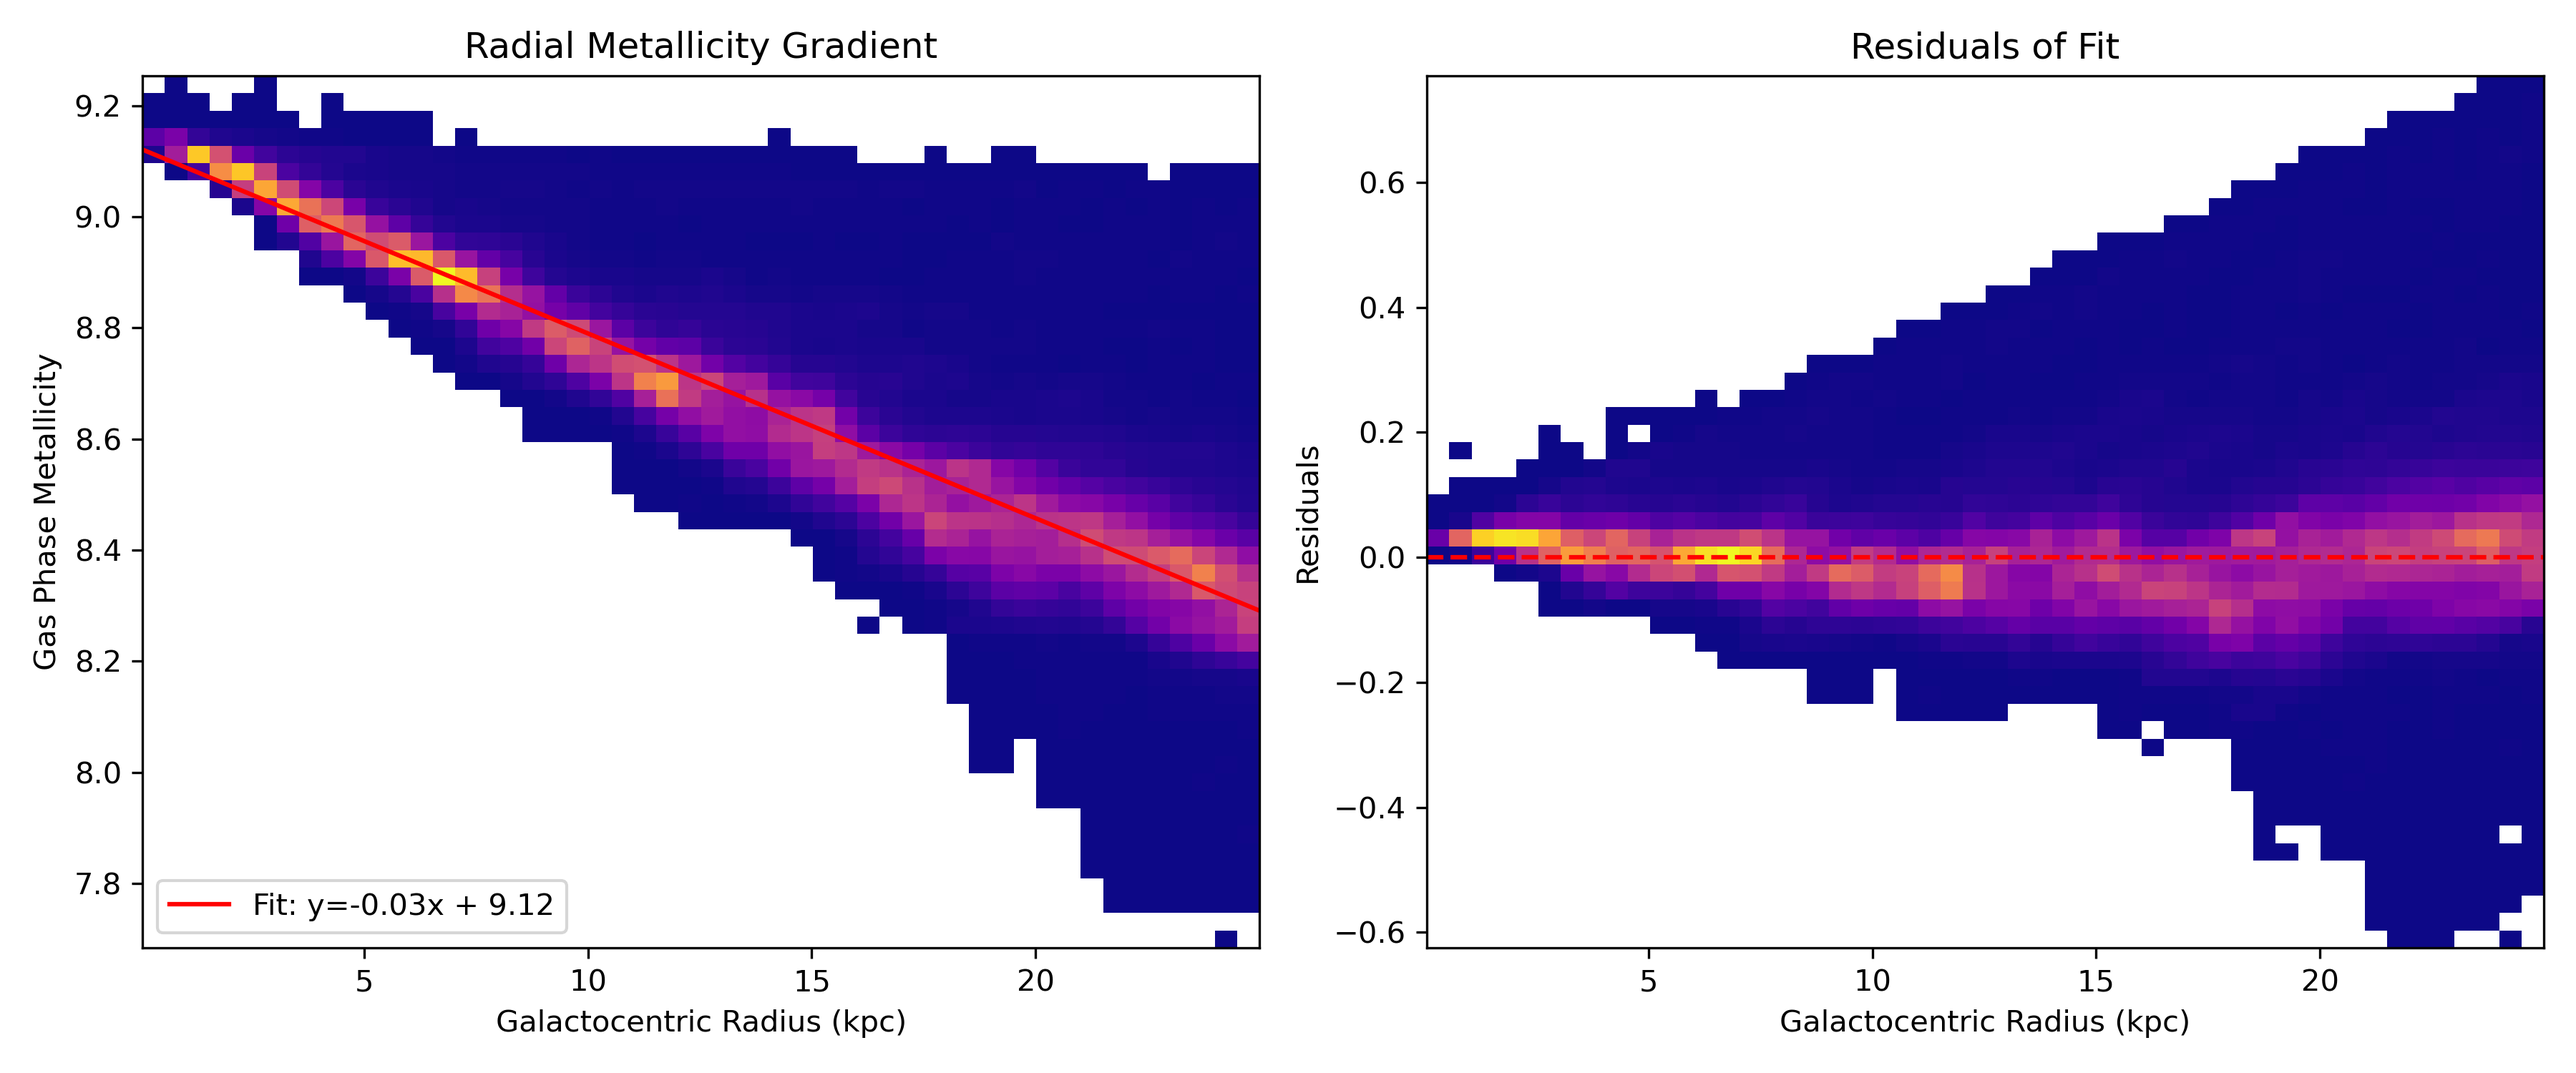
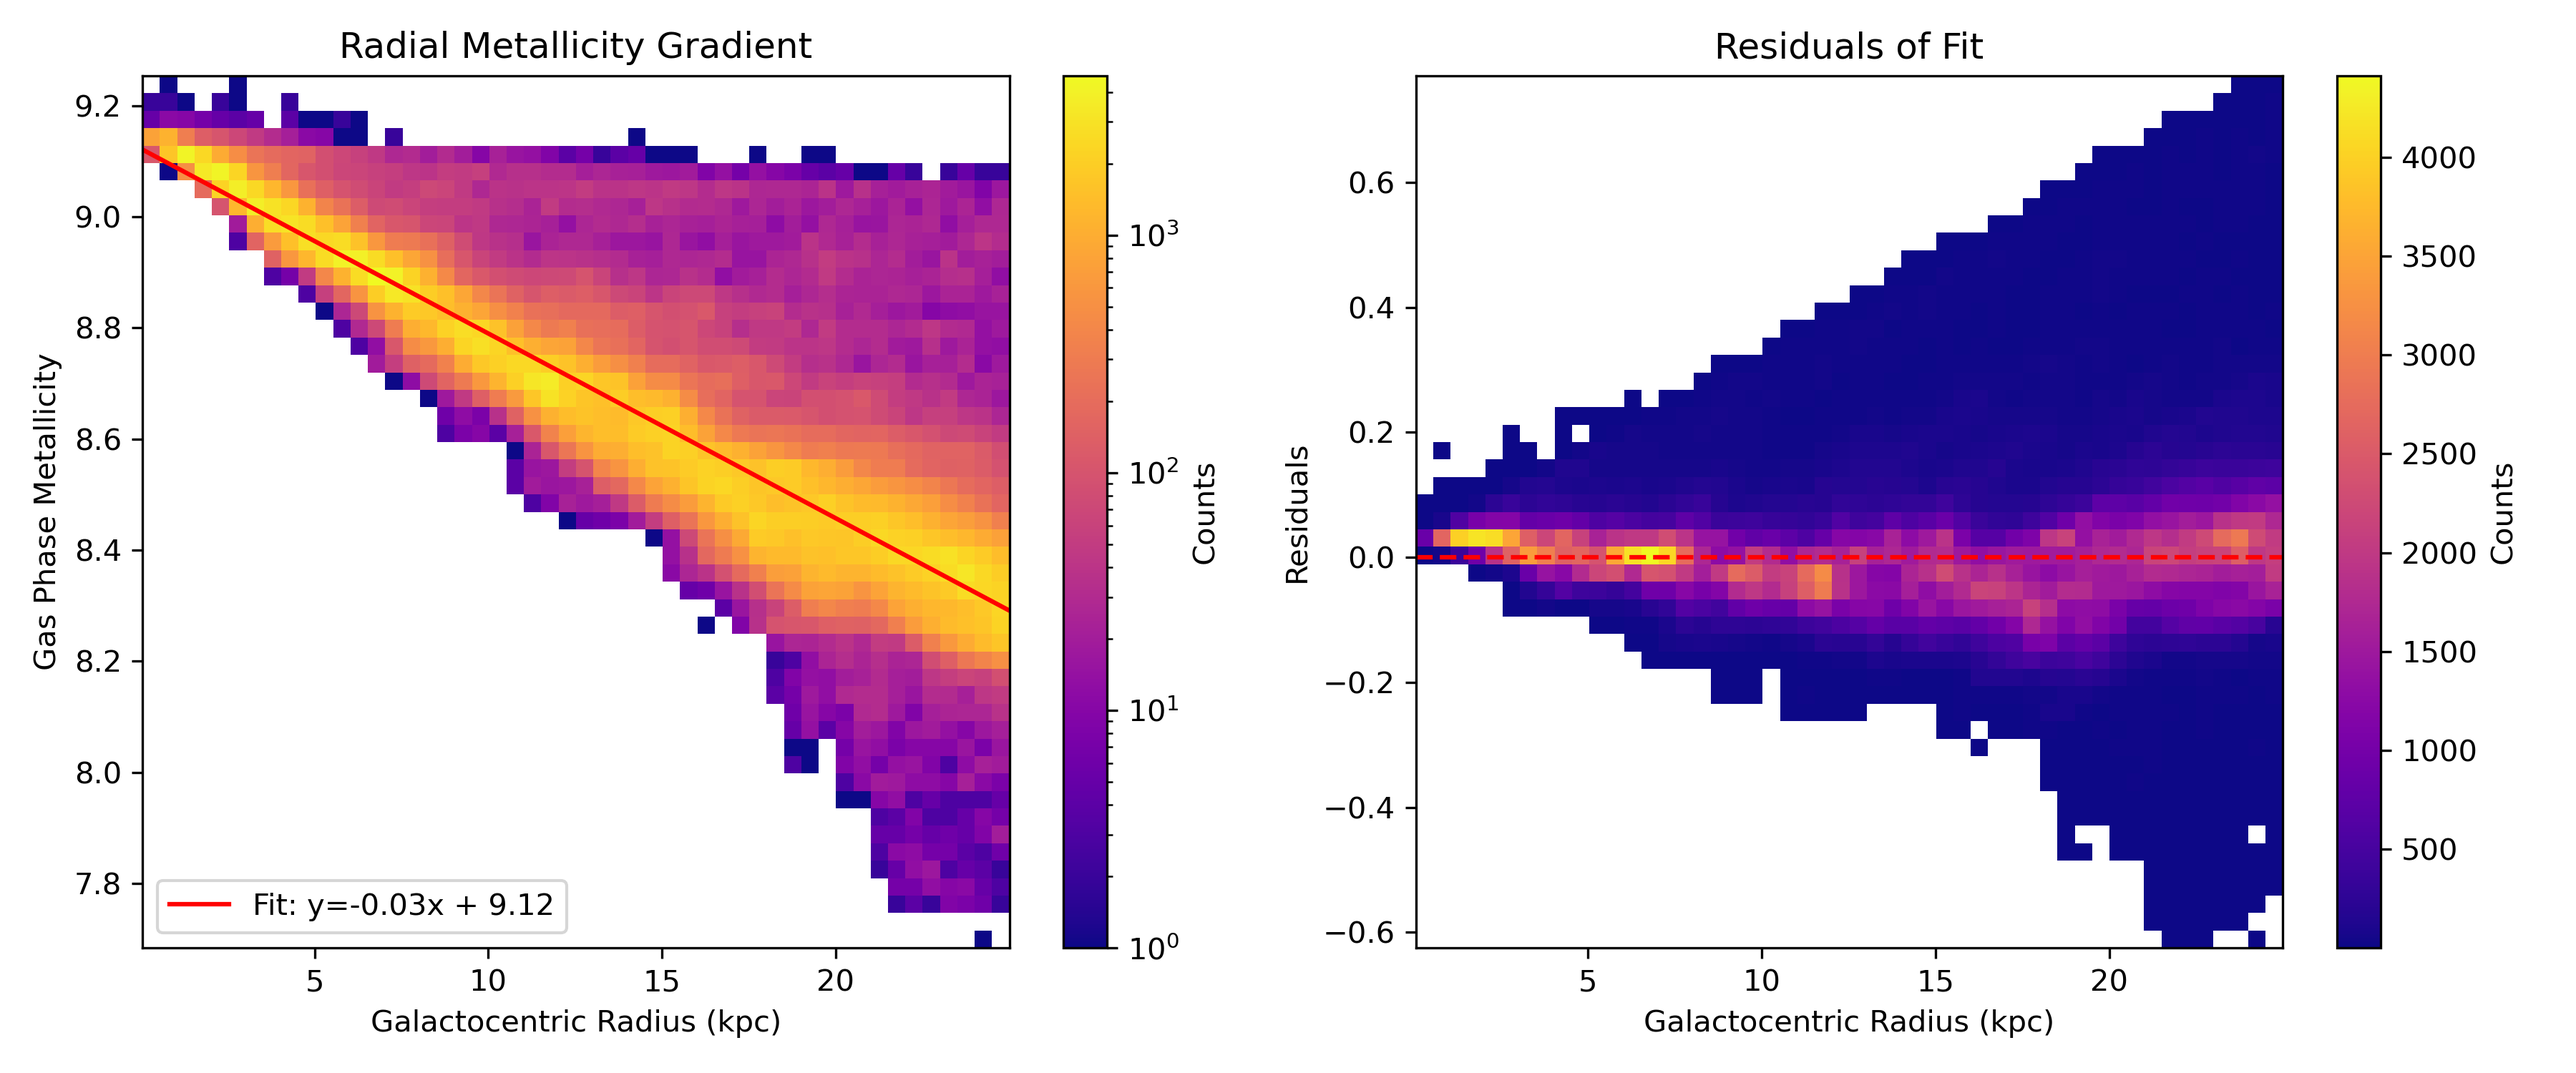
Added colour bars to density plots.

diff --git a/q3.py b/q3.py
@@ -3,6 +3,7 @@ from astropy.io import fits
 import os
 from urllib.request import urlretrieve
 import numpy as np
+from matplotlib.colors import LogNorm
 import matplotlib.pyplot as plt
 
 
@@ -34,10 +35,11 @@ a_o = data['a_o']
 fig, (ax1, ax2) = plt.subplots(1, 2, figsize=(12, 5))
 
 
-ax1.hist2d(r_gal, a_o, bins=50, cmap='plasma', cmin=1)
+h1 = ax1.hist2d(r_gal, a_o, bins=50, cmap='plasma', cmin=1, norm=LogNorm())
 ax1.set_xlabel('Galactocentric Radius (kpc)')
 ax1.set_ylabel('Gas Phase Metallicity')
-#ax1.set_xscale('log')
+cbar1 = fig.colorbar(h1[3], ax=ax1)
+cbar1.set_label('Counts')
 
 # linear fit
 fit, cov = np.polyfit(r_gal, a_o, 1, cov=True)
@@ -49,13 +51,13 @@ ax1.set_title('Radial Metallicity Gradient')
 
 # residuals of fit with log-spaced bins on x-axis
 residuals = a_o - np.polyval(fit, r_gal)
-ax2.hist2d(r_gal, residuals, bins=50, cmap='plasma', cmin=1)
+h2 = ax2.hist2d(r_gal, residuals, bins=50, cmap='plasma', cmin=1)
 ax2.axhline(0, color='red', linestyle='--')
 ax2.set_xlabel('Galactocentric Radius (kpc)')
 ax2.set_ylabel('Residuals')
 ax2.set_title('Residuals of Fit')
-#ax2.set_xscale('log')
-ax2.set_yscale('linear')
+cbar2 = fig.colorbar(h2[3], ax=ax2)
+cbar2.set_label('Counts')
 
 plt.tight_layout()
 
